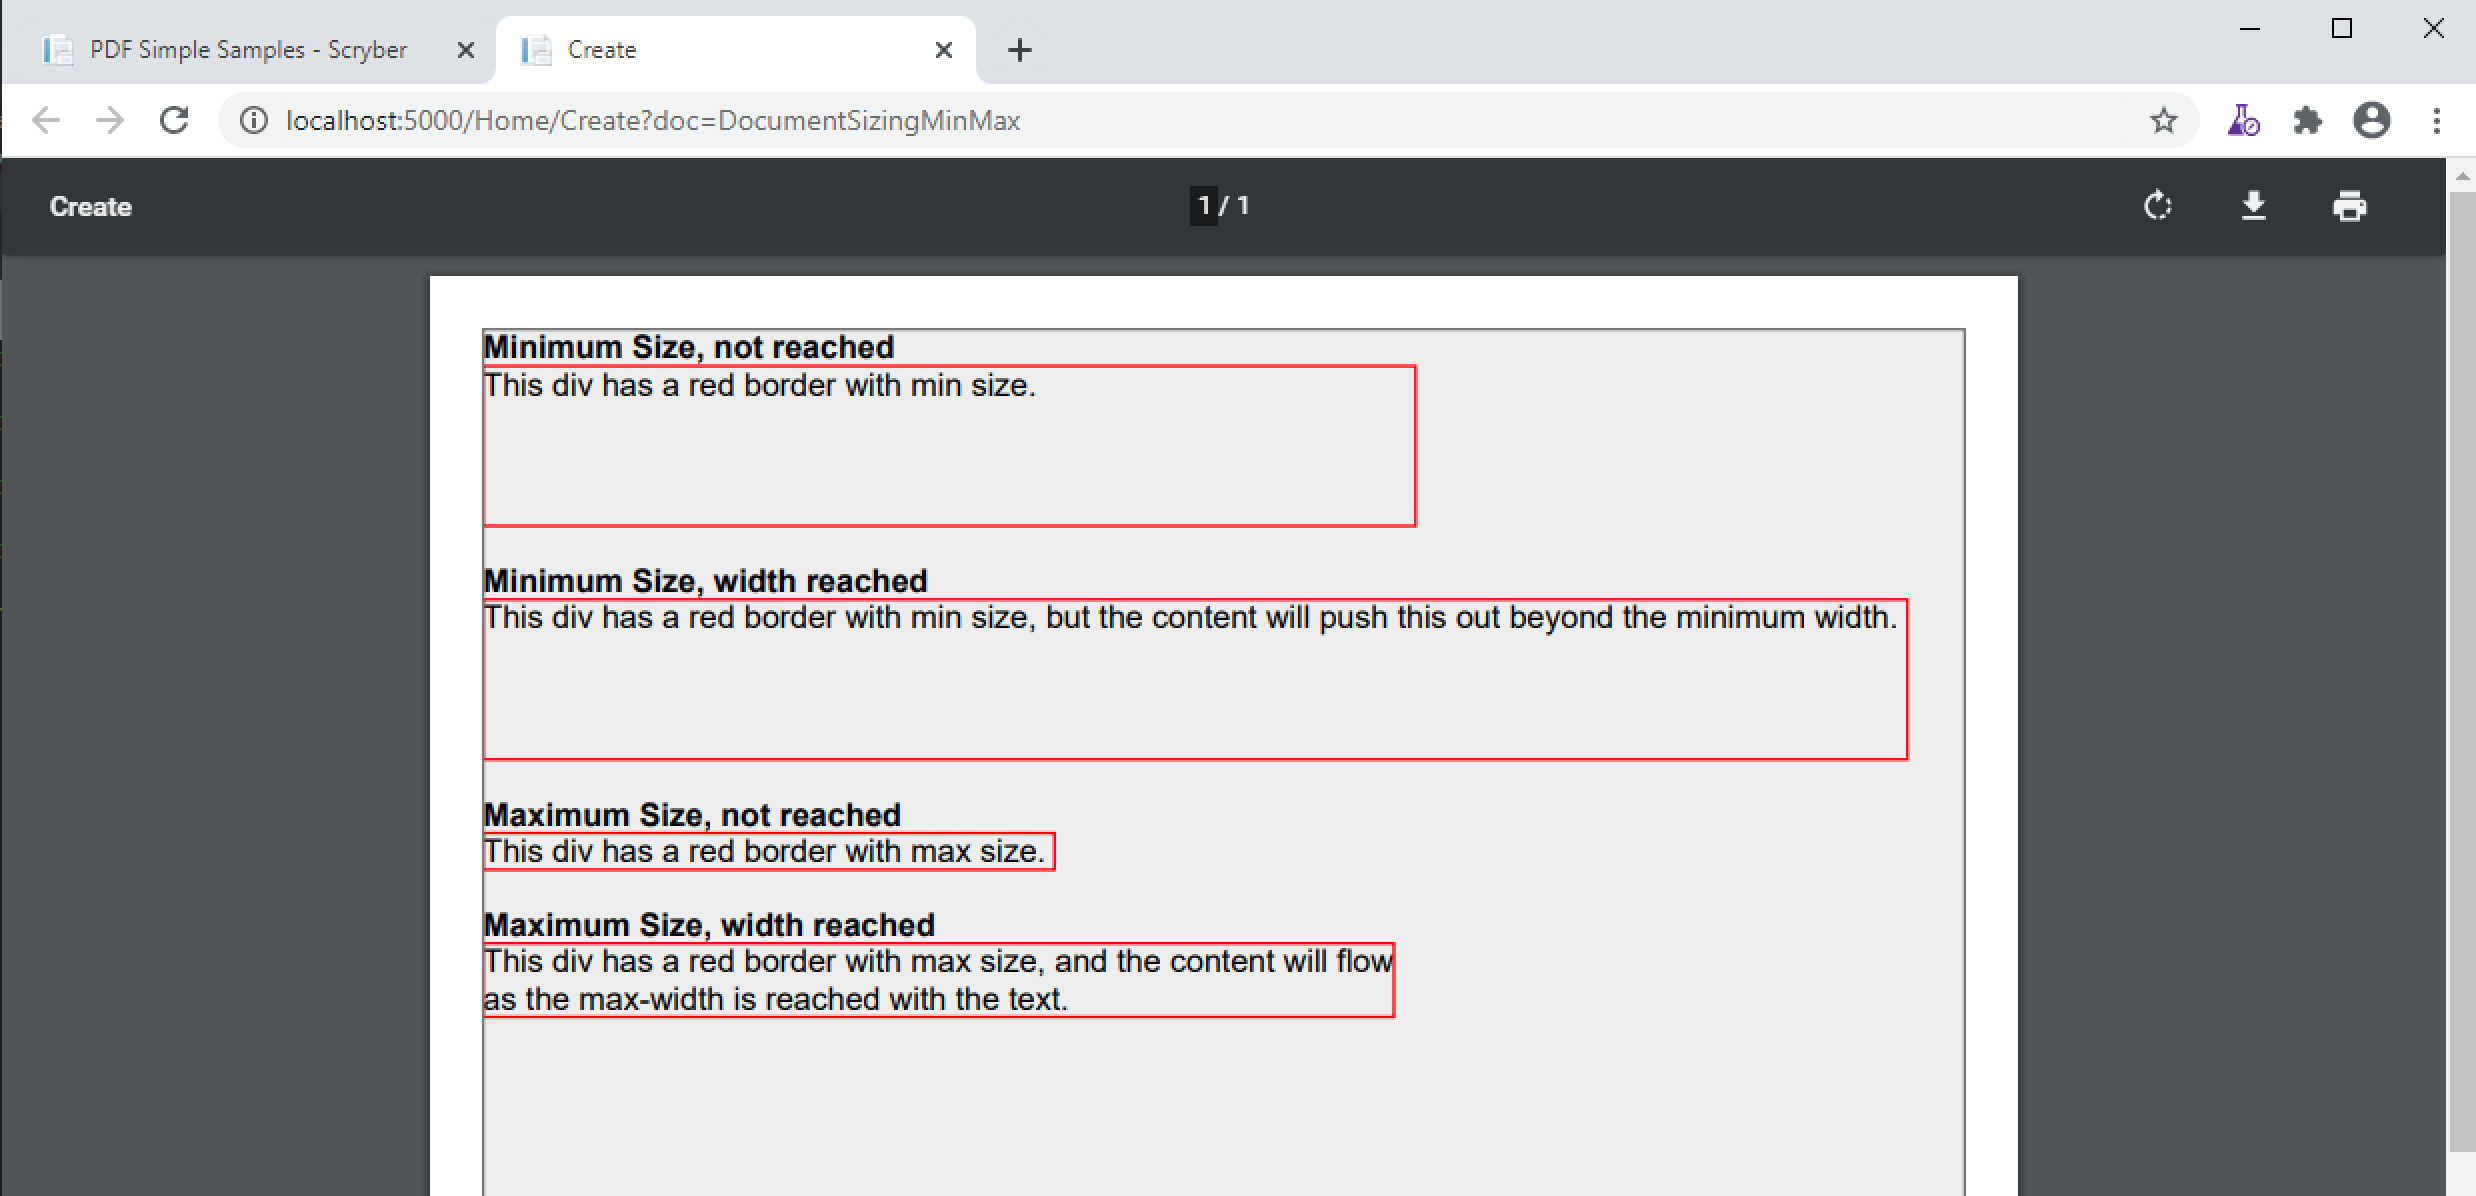
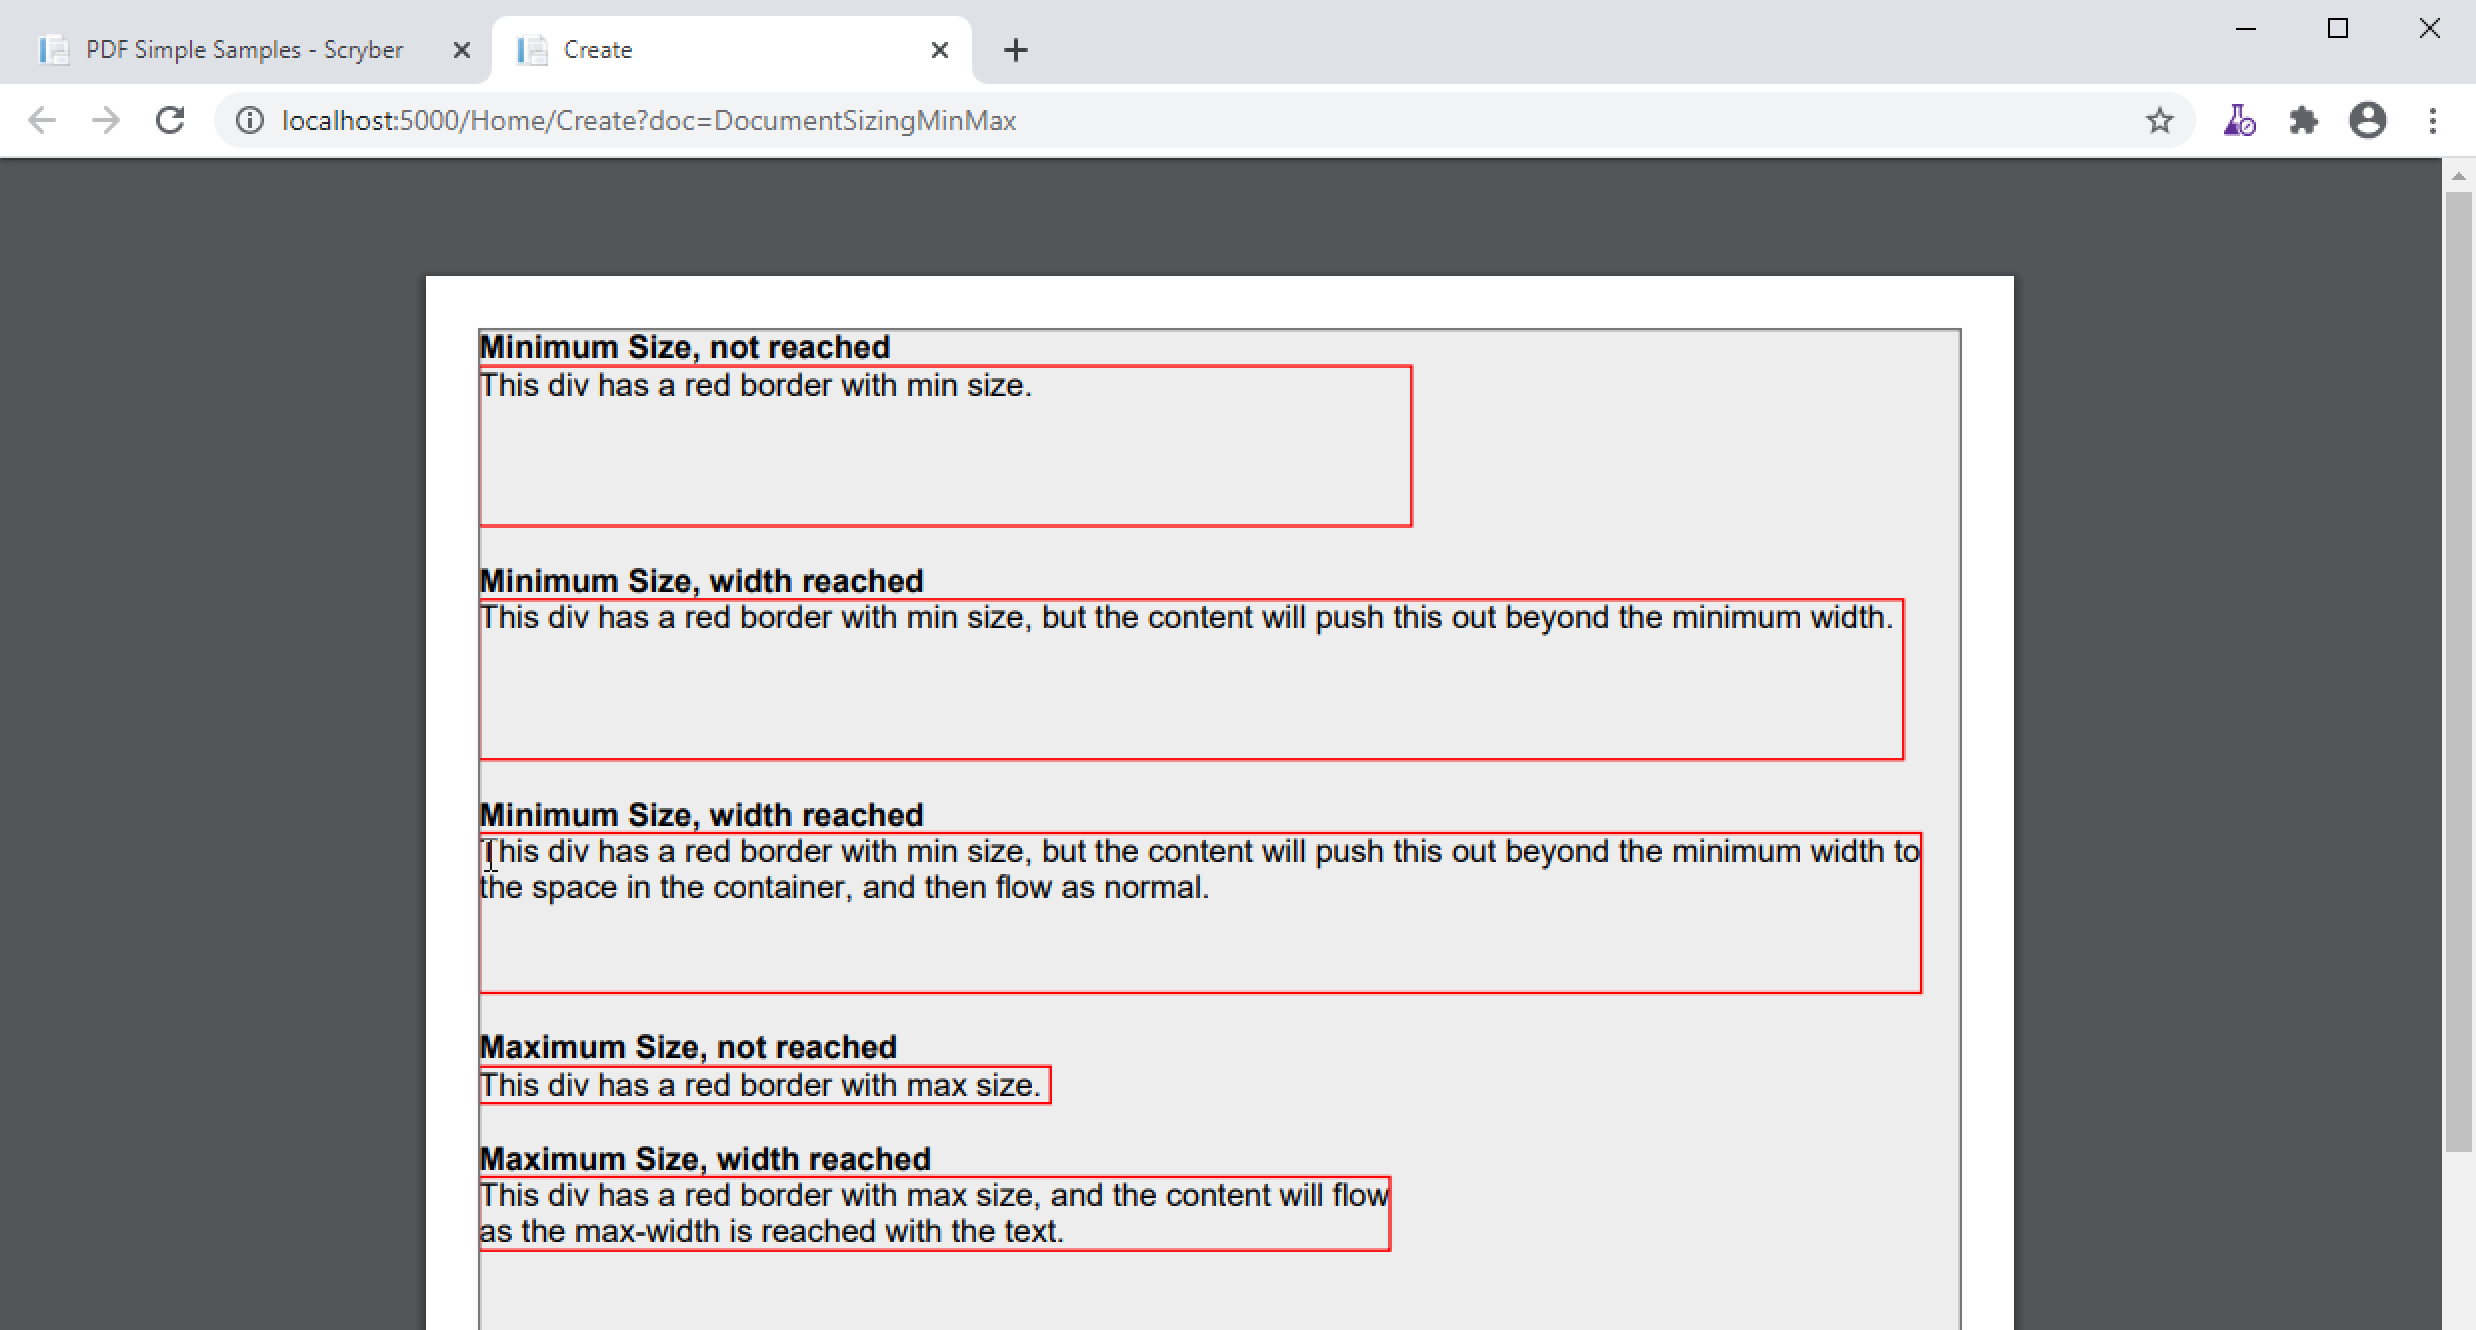
Documentation updates for overlay grid

Changed region(s): [[0.0, 0.0309, 1.0, 1.0]]

diff --git a/docs/component_sizing.rst b/docs/component_sizing.rst
@@ -331,6 +331,13 @@ ensure the content, never grows beyond that specified value.
             </pdf:Div>
 
             <pdf:Br/>
+            <pdf:B>Minimum Size, width reached</pdf:B>
+            <pdf:Div styles:class="bordered red" styles:full-width="false" styles:min-height="60pt" styles:min-width="350pt" >
+                This div has a red border with min size, but the content will push this out beyond the minimum width to the
+                space in the container, and then flow as normal.
+            </pdf:Div>
+
+            <pdf:Br/>
             <pdf:B>Maximum Size, not reached</pdf:B>
             <pdf:Div styles:class="bordered red sized" >
                 This div has a red border with max size.
@@ -354,3 +361,17 @@ ensure the content, never grows beyond that specified value.
 Sizing Grid
 =============
 
+In order to visually measure your sizes, position and content - Scryber supports the use of an overlay grid.
+This can only be set on a style, rather than inline to components. But it does have the ability for position,
+spacing and offsets.
+
+.. code-block:: xml
+
+    <styles:Style applied-type="pdf:Page" >
+      <styles:Font size="12pt"/>
+      <styles:Margins all="20pt"/>
+      <styles:Overlay-Grid color="aqua" spacing="50pt" show="true"/>
+    </styles:Style>
+
+
+.. image:: images/documentsizinggrid.png
